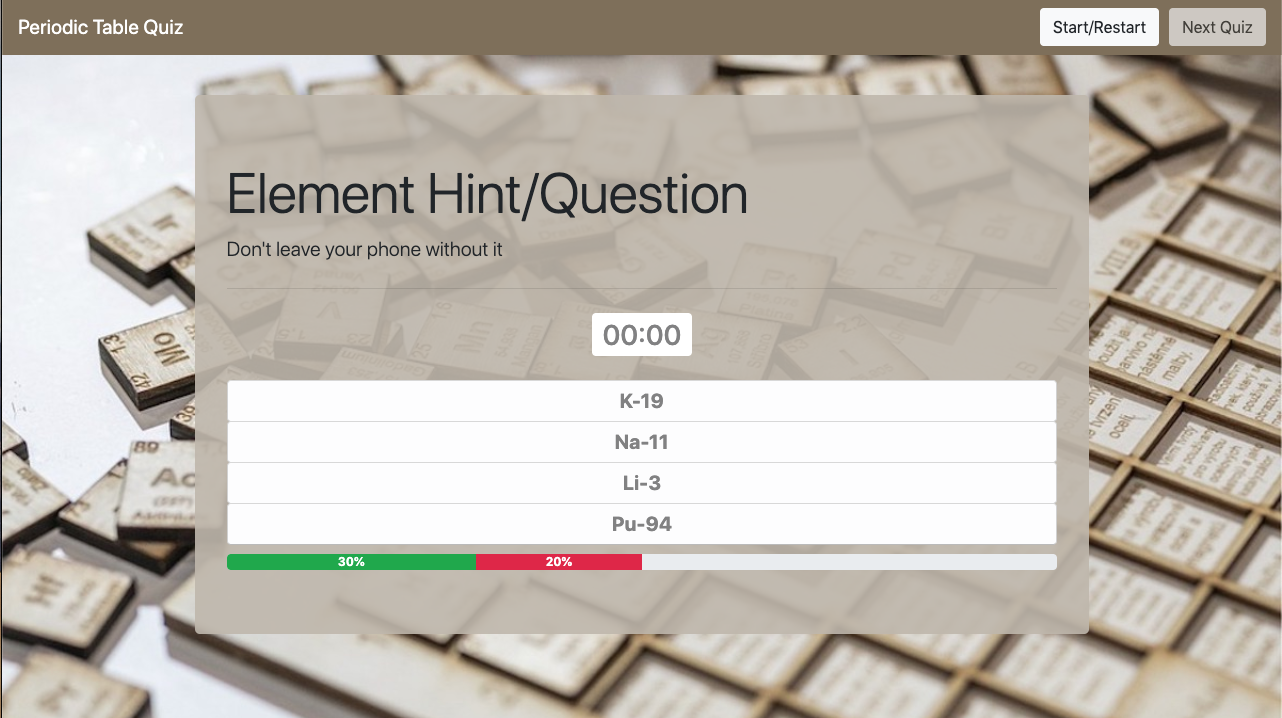
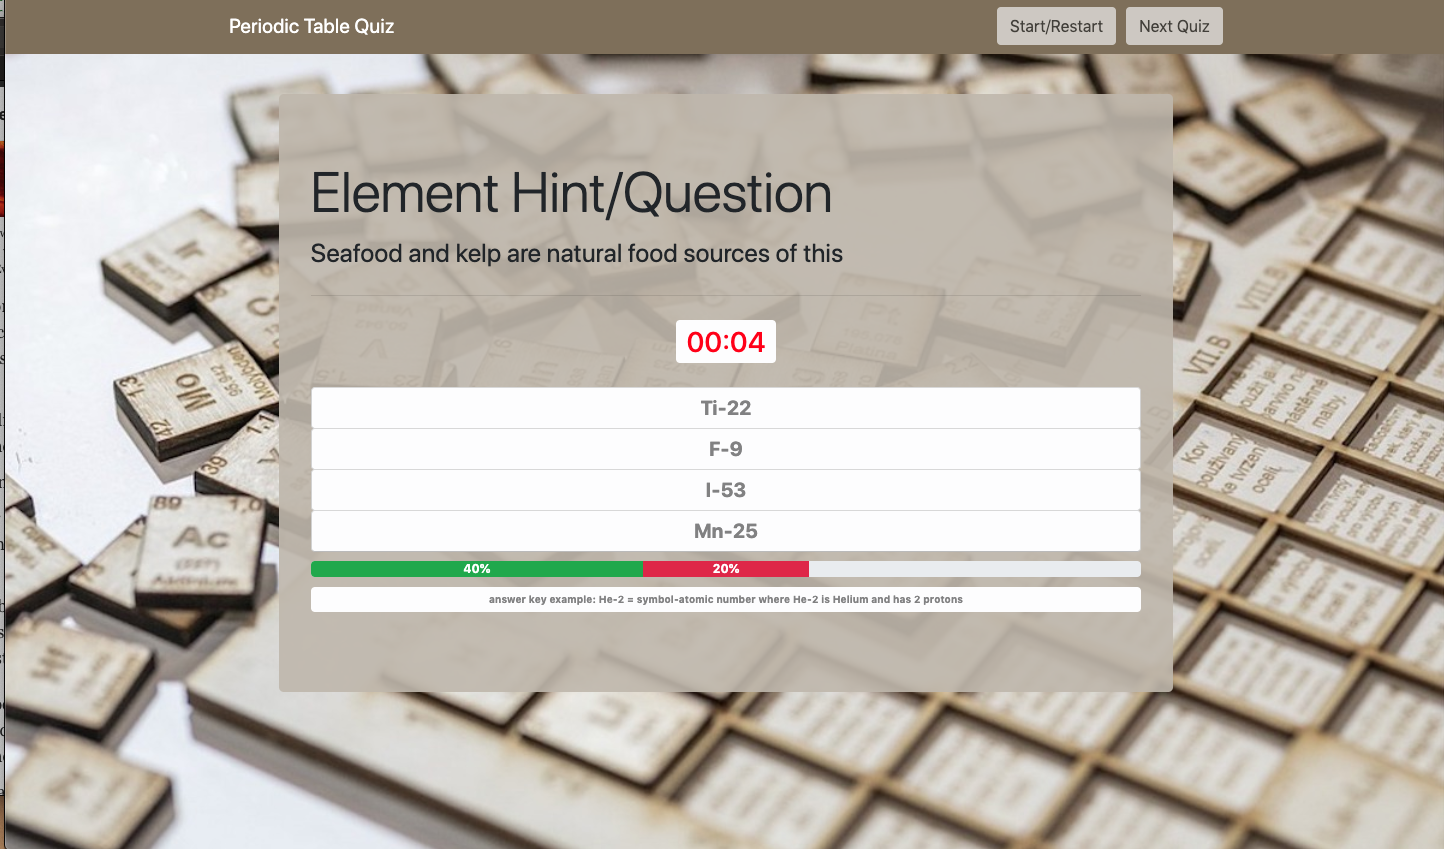
completed round with the beta testers

diff --git a/assets/javascript/app.js b/assets/javascript/app.js
@@ -153,19 +153,20 @@
 // ---------------------------------------------------------
 // initial some variables to be used in questionPool
 // maybe this goes in a game object but not sure
-var numberOfQuestions = 10;
+var numberOfQuestions = 15;
 var availableQuestions = [];
 var questionArray = [];
 var setSize = 5;
 var progressBarPercentPerQuestion = 100 / setSize;
 var setsRemaining = numberOfQuestions / setSize;
+var numberOfSetsConstant = numberOfQuestions / setSize;
 var questionsRemainingInSet = setSize;
 // timers for question allotment & for transition between questions
 var questionTimer;
 var intermissionTimer;
 // keep these in sync
-var questionTimeConstant = 7;
-var intermissionTimeConstant = 3;
+var questionTimeConstant = 25;
+var intermissionTimeConstant = 7;
 var questionTime = questionTimeConstant;
 var intermissionTime = intermissionTimeConstant;
 var correctAnswersSet = 0;
@@ -185,7 +186,7 @@ var currentQuestionInPlay;
 
 // screen texts
 
-var instructionText = "There are 5 questions per quiz/trivia round." + "<br>" + "You have 20 seconds per question" + 
+var instructionText = "There are 5 questions per quiz/trivia round." + "<br>" + "You have 25 seconds per question" + 
                       "<br>" + "Press Start when ready" 
 
 
@@ -499,7 +500,7 @@ function gameStartUp() {
    correctAnswersSet = 0;
    incorrectAnswersSet = 0;
    timeOutAnswersSet = 0;
-   setsRemaining = 2;
+   setsRemaining = numberOfSetsConstant;
    questionsRemainingInSet = setSize;
 }
 
@@ -530,7 +531,6 @@ function resetGame() {
     $("#next-set").removeAttr("disabled");
     // yourSetScore goes here 
     var bothMsg = yourSetScore() + "<br>" +
-    yourOverallScore() + "<br>" +
     "Press Next Quiz when ready";
     $("#inner-container-2").html(bothMsg); 
   }
@@ -604,18 +604,32 @@ var inlineQuestionData =  [{"name": "Hydrogen", "symbol": "H", "elementQuestion"
                  {"name": "Copper", "symbol": "Cu", "elementQuestion": "Zinc replaced which of these in the modern US penny?","choices":["Cu-29","Ag-47","Mg-12","Au-79"],"answerIndex":0,
                  "factoid": "Copper(Cu-29) was the main alloy in US pennys until 1982"},
 
+
                  {"name": "Mercury", "symbol": "Hg", "elementQuestion": "A metal you can pour","choices":["Ni-28","Hg-80","Xe-54","Ne-10"],"answerIndex":1,
                  "factoid": "Mercury(Hg-80) is the only metal that is liquid at standard temperature and pressure"},
                  {"name": "Oxygen", "symbol": "O", "elementQuestion": "Necessary to form water","choices":["He-2","Au-79","O-8","Ca-20"],"answerIndex":2,
                  "factoid": "Oxygen(O-8) H2O is water: two Hydrongen atoms and 1 Oxygen atom"},
-                 {"name": "Plutonium", "symbol": "Pu", "elementQuestion": "Named after a planet that has since been demoted to minor/dwarf status","choices":["Pu-92","Kr-36","Xe-54","Ir-77"],"answerIndex":0,
+                 {"name": "Plutonium", "symbol": "Pu", "elementQuestion": "Named after planet that has since been demoted to dwarf status","choices":["Pu-92","Kr-36","Xe-54","Ir-77"],"answerIndex":0,
                  "factoid": "Plutonium(Pu-94) was named for outer planet Pluto following namings of Uranium and Neptunium"},
-                 {"name": "Neon", "symbol": "Ne", "elementQuestion": "Downtown (1964 song by Petula Clark)...Linger on the sidewalks were the **** signs are pretty","choices":["Ti-22","F-9","Ne-10","Zr-40"],"answerIndex":2,
+                 {"name": "Neon", "symbol": "Ne", "elementQuestion": "Downtown (song) ...Linger on the sidewalks were the **** signs are pretty","choices":["Ti-22","F-9","Ne-10","Zr-40"],"answerIndex":2,
                  "factoid": "Neon(Ne-10) is used to make neon signs "},
                  {"name": "Carbon", "symbol": "C", "elementQuestion": "The elemental form of this includes one of the hardest substances and one of the softest ","choices":["Na-11","Sn-50","Rn-86","C-6"],"answerIndex":3,
-                 "factoid": "Carbon(C-6) elemental allotropic forms include diamond (hard) and graphite (soft)"}
+                 "factoid": "Carbon(C-6) elemental allotropic forms include diamond (hard) and graphite (soft)"},
 
+                 {"name": "Gold", "symbol": "Au", "elementQuestion": "Latin name means 'glow of sunrise'","choices":["Po-84","Au-79","Pd-46","Ir-77"],"answerIndex":1,
+                 "factoid": "Gold(Au-79) from the latin name aurum"},
+                 {"name": "Uranium", "symbol": "U", "elementQuestion": "3-Mile is not a rapper from Pennsylvania","choices":["Ni-28","N-7","Am-95","U-92"],"answerIndex":3,
+                 "factoid": "Uranium(U-92) isotope U-235 is used in nuclear reactors"},
+                 {"name": "Titanium", "symbol": "Ti", "elementQuestion": "Named after Greek gods","choices":["As-33","Ti-22","Rn-86","B-5"],"answerIndex":1,
+                 "factoid": "Titanium(Ti-22) was named after the Titans of Greek mythology"},
+                 {"name": "Iodine", "symbol": "I", "elementQuestion": "Seafood and kelp are natural food sources of this","choices":["Ti-22","F-9","I-53","Mn-25"],"answerIndex":2,
+                 "factoid": "Iodine(I-53) - a small amount is essential for nutrition "},
+                 {"name": "Sodium", "symbol": "Na", "elementQuestion": "Compounds of this element are used in food preservation","choices":["K-19","Na-11","Fe-26","P-15"],"answerIndex":1,
+                 "factoid": "Sodium(Na-11) - important in maintaining fluid balance in human cells"}
+
+   
                 ];
+
 
 
 // ----------------------------------------------------------

diff --git a/index.html b/index.html
@@ -55,7 +55,7 @@
                     <p id="info-line" class="lead">Welcome to the Periodic Table of Elements Quiz</p>
                     <hr class="my-4">
                     <h3 id="timer">
-                        <span>00:20</span>
+                        <span>00:25</span>
                     </h3>
                     <br>
                     <div id="inner-container" class="hide-container">

diff --git a/assets/css/style.css b/assets/css/style.css
@@ -41,8 +41,10 @@ body {
   font-weight: bolder;
   margin-left: 5%;
   margin-right: 5%;
+}
 
-
+.lead {
+  font-size: 1.4 rem;
 }
 
 #info-line {  
